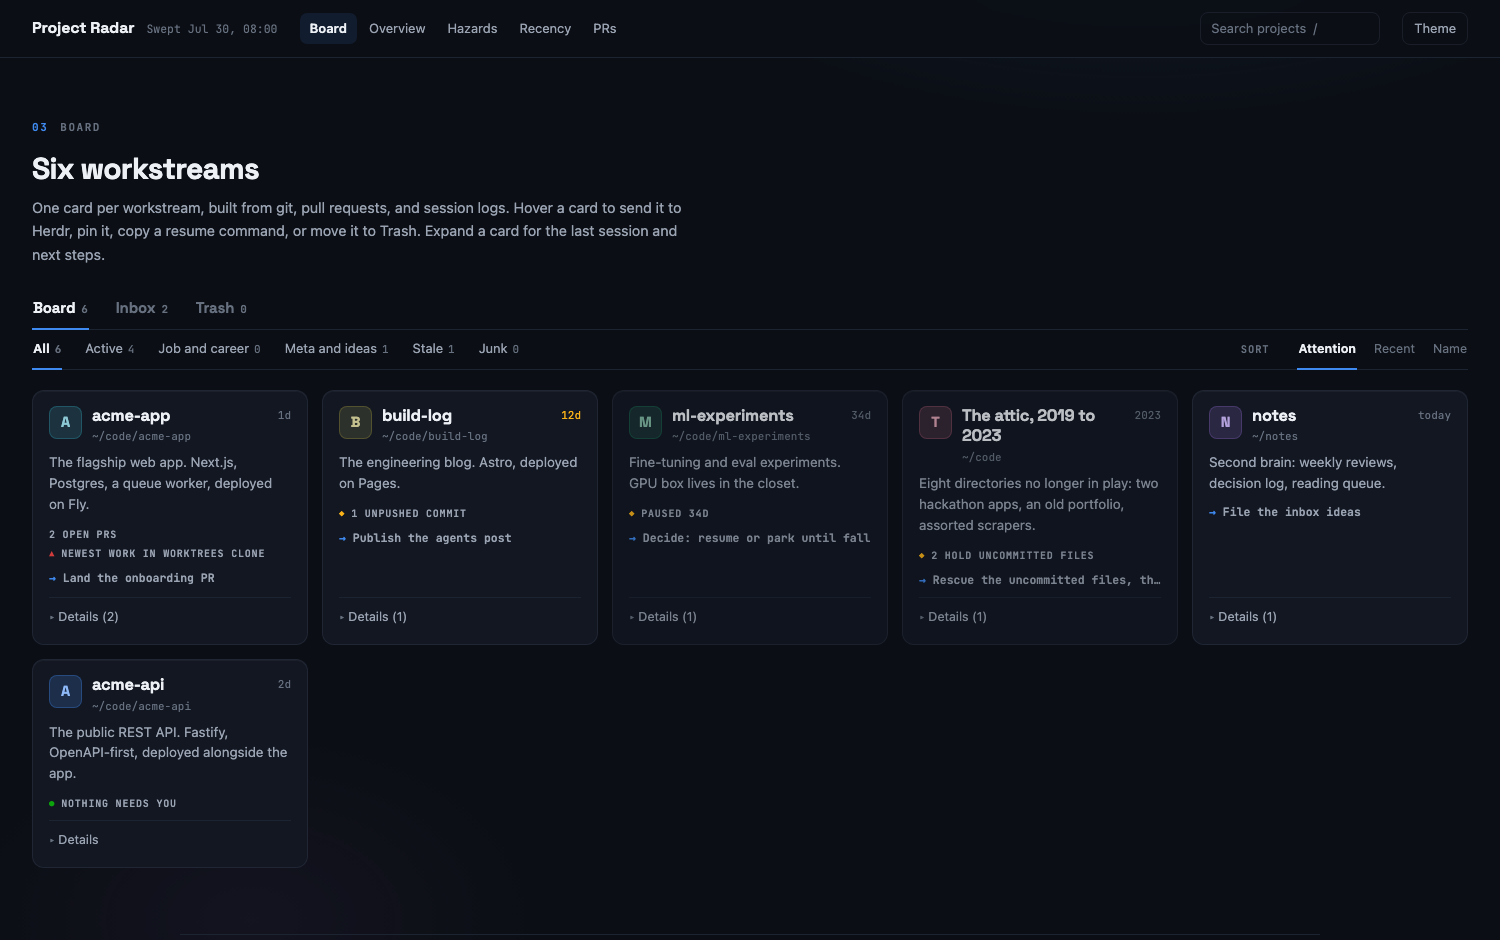
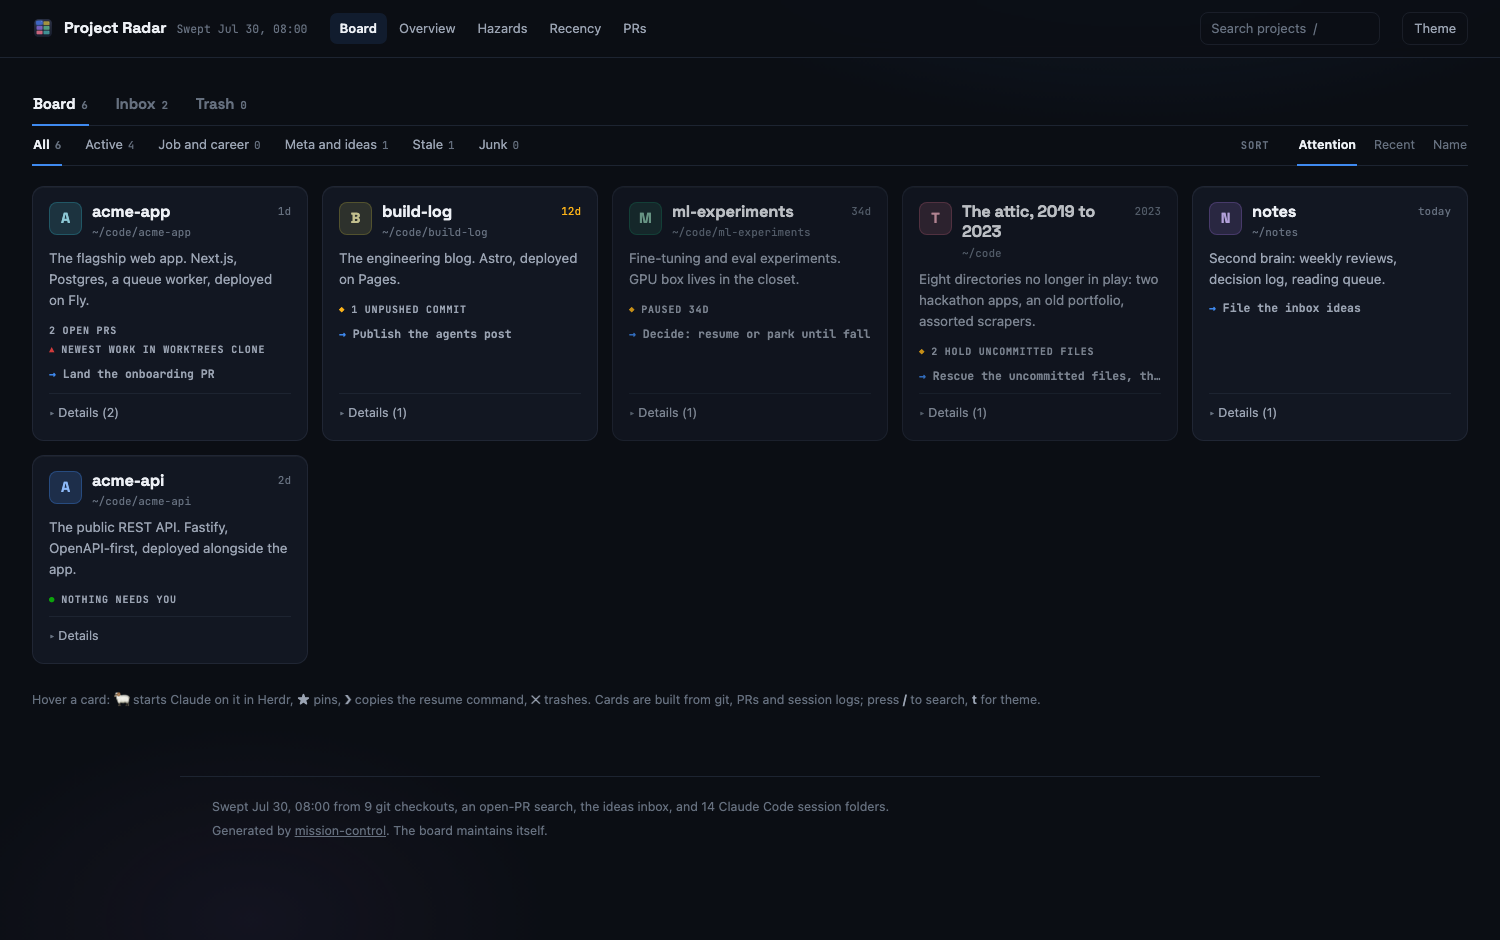
polish: board-first layout, de-stickied rail labels, search-jump, brand mark
Board view opens straight into cards (heading moved to a hint line and a
changed-count chip); kick labels no longer ride over content on scroll;
hash loads no longer tuck headings under the wrapped sticky header;
searching from any view jumps to the board without a keystroke-eating
view transition; no-match empty state; two-row header on narrow widths.

diff --git a/board.template.html b/board.template.html
@@ -108,11 +108,12 @@
     border-bottom: 1px solid var(--grid);
     padding: 12px 32px;
     display: flex; align-items: center; gap: 22px; flex-wrap: wrap;
+    view-transition-name: hdr;   /* keeps the header rock-steady during view switches */
   }
-  header .brand { display: flex; align-items: baseline; gap: 12px; white-space: nowrap; }
+  header .brand { display: flex; align-items: center; gap: 10px; white-space: nowrap; }
+  #brandMark { width: 22px; height: 22px; border-radius: 6px; display: block; }
   header h1 { font: 700 16px/1 var(--display); letter-spacing: -0.01em; }
   header .date { font: 11.5px var(--mono); color: var(--ink-3); }
-  nav { display: flex; gap: 16px; flex-wrap: wrap; }
   nav { display: flex; gap: 2px; overflow-x: auto; scrollbar-width: none; }
   nav a { color: var(--ink-2); font-size: 13px; padding: 5px 10px; border-radius: 7px; white-space: nowrap; transition: color .15s var(--out), background .15s var(--out); }
   nav a:hover { color: var(--ink-1); background: var(--accent-soft); }
@@ -143,15 +144,19 @@
   }
   section + section { border-top: 1px solid var(--grid); }
   .kick {
-    position: sticky; top: 72px; align-self: start;
+    /* static: in the tabbed layout a sticky rail label rides over the content */
+    align-self: start;
     display: flex; gap: 12px; align-items: baseline;
     font: 600 11px var(--mono); text-transform: uppercase; letter-spacing: 0.14em;
     color: var(--ink-3); padding-top: 10px;
   }
   .kick .kn { color: var(--accent); }
-  /* the board breaks out of the rail and the measure to fit the card wall */
-  #board { width: 100%; grid-template-columns: 1fr; }
-  #board .kick { position: static; padding: 0 0 18px; }
+  /* the board breaks out of the rail and the measure to fit the card wall,
+     and starts right at the tabs: every pixel above the fold is cards */
+  #board { width: 100%; grid-template-columns: 1fr; padding-top: 30px; }
+  #chgNote { margin-left: auto; padding-bottom: 10px; font-size: 12.5px; font-weight: 600; color: var(--ink-1); }
+  .hintline { color: var(--ink-3); font-size: 12.5px; margin-top: 26px; max-width: none; }
+  .hintline .k { color: var(--ink-2); font-weight: 600; }
   h2 { font: 700 30px/1.15 var(--display); letter-spacing: -0.025em; margin-bottom: 10px; }
   .sub { color: var(--ink-2); font-size: 14.5px; max-width: 72ch; margin-bottom: 26px; }
   .sub .chg-note { color: var(--ink-1); font-weight: 600; }
@@ -522,6 +527,11 @@
     .acts { opacity: 1; pointer-events: auto; position: static; margin-left: auto; }
     .entry .when { display: none; }
   }
+  @media (max-width: 1180px) {
+    /* keep the header two rows max: brand + controls, then the nav rail */
+    nav { order: 10; width: 100%; }
+    #search { width: 140px; }
+  }
   @media (max-width: 640px) {
     .row { grid-template-columns: 112px 1fr 84px; }
     header { padding: 10px 16px; }
@@ -581,7 +591,7 @@
 
 <header>
   <div class="brand">
-    <h1>Project Radar</h1>
[1 lines of base64/hex data omitted]
     <span class="date"><!-- SWEEP:STAMP -->
 Swept Jul 30, 08:00
 <!-- /SWEEP:STAMP --></span>
@@ -651,17 +661,13 @@ Swept Jul 30, 08:00
 
 <!-- ═══ 03 BOARD ═══ -->
 <section id="board">
-  <div class="kick"><span class="kn">03</span>Board</div>
   <div class="content">
-    <!-- SWEEP:BOARDHEAD -->
-    <h2>Six workstreams</h2>
-<!-- /SWEEP:BOARDHEAD -->
-    <p class="sub" id="boardSub">One card per workstream, built from git, pull requests, and session logs. Hover a card to send it to Herdr, pin it, copy a resume command, or move it to Trash. Expand a card for the last session and next steps.</p>
     <div class="tabs" role="tablist" aria-label="Board views">
       <button class="tab" role="tab" id="tabBoard" aria-selected="true" data-tab="board">Board<span class="n" id="nBoard"></span></button>
       <button class="tab" role="tab" id="tabInbox" aria-selected="false" data-tab="inbox">Inbox<span class="n" id="nInbox"></span></button>
       <button class="tab" role="tab" id="tabTrash" aria-selected="false" data-tab="trash">Trash<span class="n" id="nTrash"></span></button>
       <span class="tind" aria-hidden="true"></span>
+      <span id="chgNote" hidden></span>
       <button id="emptyTrash" class="btn danger" hidden>Empty trash</button>
     </div>
     <div class="filters" id="filters" role="group" aria-label="Filter projects"></div>
@@ -670,7 +676,9 @@ Swept Jul 30, 08:00
     <div class="entries" id="boardGrid">
       <div class="tempty" id="tempty" hidden>Trash is empty. Deleted cards land here and stay until you delete them forever.</div>
       <div class="tempty" id="iempty" hidden>Inbox zero. Say "Hey Siri, Idea" to the watch and it lands here on the next sweep.</div>
+      <div class="tempty" id="nomatch" hidden>No cards match. Esc clears the search.</div>
     </div>
+    <p class="hintline">Hover a card: <span class="k">🐏</span> starts Claude on it in Herdr, <span class="k">★</span> pins, <span class="k">❯</span> copies the resume command, <span class="k">✕</span> trashes. Cards are built from git, PRs and session logs; press <span class="k">/</span> to search, <span class="k">t</span> for theme.</p>
   </div>
 </section>
 
@@ -1136,6 +1144,7 @@ function update(){
     ch.querySelector(".n").textContent = k==="all" ? boardP.length : boardP.filter(p=>p.cat===k).length;
   });
 
+  let shownBoard = 0;
   PROJECTS.forEach(p=>{
     const el = cardEls.get(p.id), t = tombs[p.id];
     if (t?.purged) { el.classList.add("hidden"); return; }
@@ -1148,6 +1157,7 @@ function update(){
       ? false
       : !t && (activeCat==="all" || p.cat===activeCat) && (!q || el.dataset.text.includes(q));
     el.classList.toggle("hidden", !show);
+    if (show) shownBoard++;
     if (t) el.querySelector(".tmeta").textContent = agoTxt(t.d);
   });
   ideaEls.forEach(el=>{
@@ -1165,9 +1175,21 @@ function update(){
   emptyBtn.hidden = !(tab==="trash" && trashP.length>0);
   temptyEl.hidden = !(tab==="trash" && trashP.length===0);
   document.getElementById("iempty").hidden = !(tab==="inbox" && INBOX.length===0);
+  document.getElementById("nomatch").hidden = !(tab==="board" && q && shownBoard===0);
+  document.querySelector(".hintline").hidden = tab!=="board";
+  const cn = document.getElementById("chgNote");
+  cn.hidden = tab!=="board" || !cn.textContent;
   placeInd();
 }
-searchEl.addEventListener("input", ()=>update());   /* instant, no transition while typing */
+searchEl.addEventListener("input", ()=>{
+  /* searching from any view jumps to the board, where the results live.
+     No view transition here: its capture freeze would eat keystrokes. */
+  if (searchEl.value && !document.getElementById("board").classList.contains("on")) {
+    history.replaceState(null, "", "#board");
+    showView("board");
+  }
+  update();   /* instant, no transition while typing */
+});
 update();
 
 /* ── changed since your last visit ────────────────── */
@@ -1178,10 +1200,9 @@ update();
     const changed = PROJECTS.filter(p=> prev.m[p.id]!==undefined && prev.m[p.id]!==(p.last||""));
     if (changed.length) {
       changed.forEach(p=>cardEls.get(p.id).classList.add("chg"));
-      const s = document.createElement("span");
-      s.className = "chg-note";
-      s.textContent = ` ${changed.length} card${changed.length>1?"s":""} updated since your last visit.`;
-      document.getElementById("boardSub").appendChild(s);
+      const note = document.getElementById("chgNote");
+      note.textContent = `${changed.length} card${changed.length>1?"s":""} updated since your last visit`;
+      note.hidden = false;
     }
   }
   /* refresh the snapshot at most every 6 hours so the markers survive same-day reloads */
@@ -1260,6 +1281,16 @@ function showView(v){
 }
 showView((location.hash||"").slice(1) || "board");
 addEventListener("hashchange", ()=>vt(()=>showView((location.hash||"").slice(1) || "board")));
+/* views are panels: defeat the browser's native hash-anchor scroll on load,
+   which otherwise tucks the section heading under the sticky header */
+history.scrollRestoration = "manual";
+addEventListener("load", ()=>scrollTo(0, 0));
+
+/* favicon = the brand mark (same data URI, no extra bytes) */
+const fav = document.createElement("link");
+fav.rel = "icon";
+fav.href = document.getElementById("brandMark").src;
+document.head.appendChild(fav);
 
 /* ── mission control live layer (only when served, not as a bare file) ── */
 const flashEl = document.createElement("div");

diff --git a/sweep.js b/sweep.js
@@ -378,8 +378,6 @@ function render(d) {
       </div>`).join("")}
     </div>`, true);
 
-  html = region(html, "BOARDHEAD", `    <h2>${capWord(d.figures.workstreams)} workstreams</h2>`, true);
-
   html = region(html, "PRS", `
     <h2>${capWord(d.figures.prs)} ${d.figures.prs === 1 ? "is" : "are"} waiting on you</h2>
     <p class="sub">Across ${numWord(d.figures.prRepos)} repositories. The oldest ones are blocked on decisions, not code.</p>
